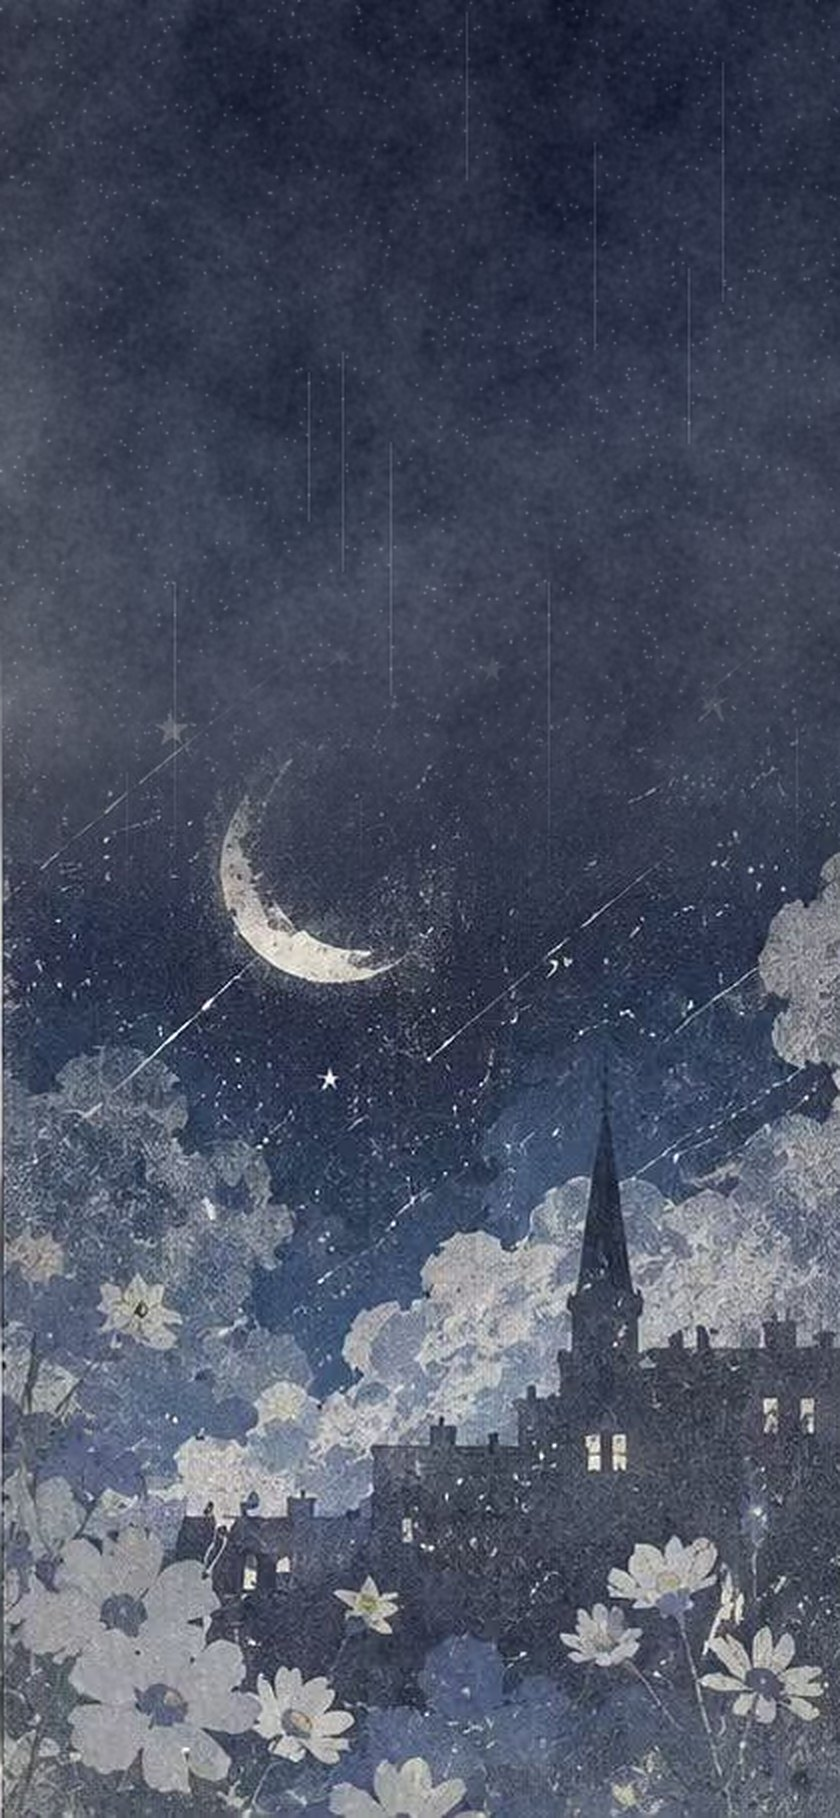
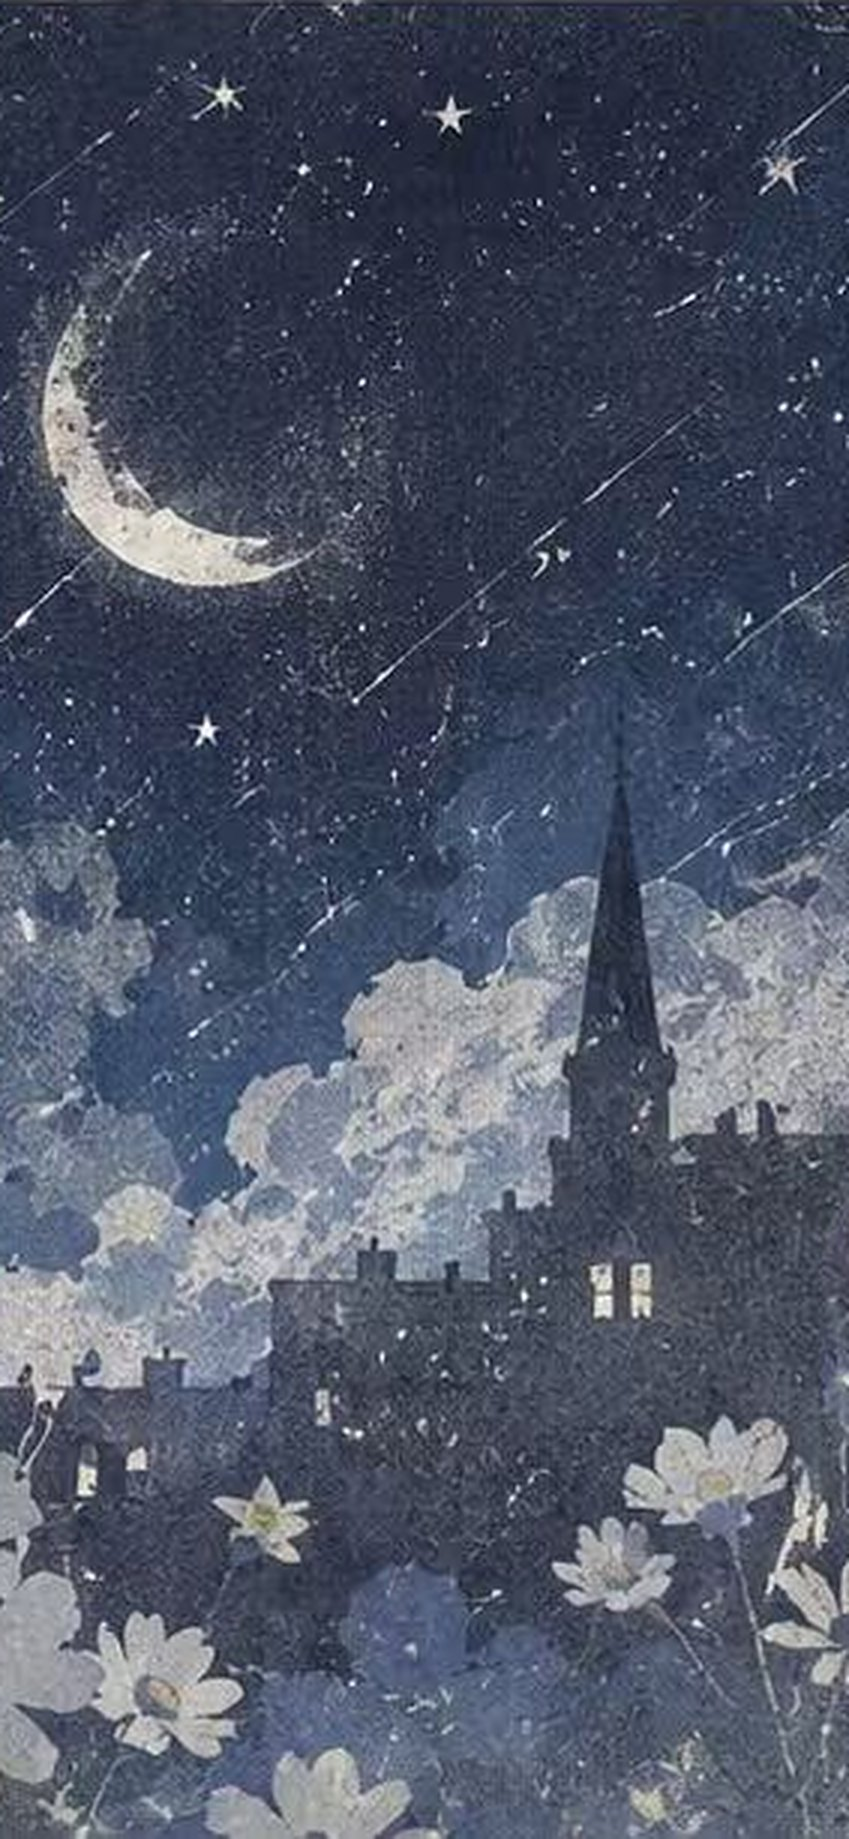
feat: 可安装的预览版插件 + 城堡壁纸改为裁剪
- 加 manifest.json / index.js / style.css：酒馆里出现可拖动的 ✦ 悬浮按钮，点开就是锁屏
- 城堡壁纸不再往上补天空，改为直接裁剪；通知位置按壁纸避开月亮
- 手机收起时暂停动画

Claude-Session: https://claude.ai/code/session_01W7dSssvQi6zYHde5aBuaY9

diff --git a/prototype/lockscreen/index.html b/prototype/lockscreen/index.html
@@ -83,7 +83,7 @@ canvas.as-layer { position: absolute; inset: 0; width: 100%; height: 100%; displ
 .as-lock-date { margin-top: 12px; font: 400 15px/1.4 var(--font-cn); letter-spacing: .14em; }
 .as-lock-sub { margin-top: 8px; font: 500 11px/1 var(--font-clock); letter-spacing: .34em; text-transform: uppercase; color: var(--ink-2); padding-left: .34em; }
 
-.as-lock-notice { position: absolute; left: max(16px, 4.5%); right: max(16px, 4.5%); top: 29.5%; display: flex; flex-direction: column; gap: 8px; }
+.as-lock-notice { position: absolute; left: max(16px, 4.5%); right: max(16px, 4.5%); top: var(--notice-top, 29.5%); transition: top 420ms var(--as-ease-standard); display: flex; flex-direction: column; gap: 8px; }
 /* 叠放：只露出第一张，后面的卡片在下面探出一条边；点一下展开 */
 .as-lock-notice__item { position: relative; transition: transform 420ms var(--as-ease-spring), opacity 300ms, margin 420ms var(--as-ease-spring); }
 .as-lock-notice.is-stacked .as-lock-notice__item:nth-child(n+2) { margin-top: -66px; transform: translateY(14px) scale(.93); opacity: .72; z-index: -1; }
@@ -285,10 +285,11 @@ const reduceMotion = matchMedia('(prefers-reduced-motion: reduce)').matches;
 
 /* ---------- 壁纸资料 ---------- */
 const WALL = {
-  castle: { day: 'wallpapers/castle-day.jpg', night: 'wallpapers/castle-night.jpg', aspect: 424 / 918,
-            moonDay: [0.47, 0.534], moonNight: [0.381, 0.48] },
+  // noticeTop：通知放在哪里，避开这张图的主角（月亮）
+  castle: { day: 'wallpapers/castle-day.jpg', night: 'wallpapers/castle-night.jpg', aspect: 283 / 613,
+            moonDay: [0.38, 0.30], moonNight: [0.21, 0.24], noticeTop: '45%' },
   water:  { day: 'wallpapers/water-day.jpg', night: 'wallpapers/water-night.jpg', aspect: 574 / 1242,
-            moonDay: [0.50, 0.523], moonNight: [0.50, 0.523] }
+            moonDay: [0.50, 0.523], moonNight: [0.50, 0.523], noticeTop: '29.5%' }
 };
 // 鱼群：圆心、横纵比、每条鱼的起始角度和半径（量自原图）
 const RING = { cx: 0.4796, cy: 0.5536, k: 1.378,
@@ -336,7 +337,7 @@ void main(){
   iuv = (iuv - .5) / uZoom + .5 + uDrift;
   vec2 off = vec2(0.);
   if (uKind < .5) {
-    float w = smoothstep(.80, 1., iuv.y);
+    float w = smoothstep(.70, 1., iuv.y);
     off.x += (sin(uTime*1.3 + iuv.y*18. + iuv.x*5.)*.0022 + sin(uTime*.7 + iuv.x*9.)*.0012) * w;
   } else {
     off = vec2(sin(iuv.y*38. + uTime*1.1) + sin((iuv.x+iuv.y)*27. - uTime*.8),
@@ -449,10 +450,11 @@ function setNight(night, origin, instant) {
 const rand = (a, b) => a + Math.random() * (b - a);
 let stars = [], motes = [], glints = [], meteors = [], bursts = [];
 function seedFx() {
-  stars = Array.from({ length: 30 }, () => ({ u: rand(.04, .96), v: rand(.04, .56), s: rand(1.6, 4.2), sp: rand(.6, 1.8), ph: rand(0, 6.28), warm: Math.random() < .35 }));
+  const w = WALL.castle;
+  stars = Array.from({ length: 34 }, () => ({ u: rand(.04, .96), v: rand(.03, .5), s: rand(1.6, 4.2), sp: rand(.6, 1.8), ph: rand(0, 6.28), warm: Math.random() < .35 }));
   // 别让星星落在月亮上
-  stars = stars.filter(s => Math.hypot((s.u - .43) * .46, s.v - .5) > .07);
-  motes = Array.from({ length: 22 }, () => ({ u: rand(0, 1), v: rand(.62, 1.02), r: rand(.8, 2.2), sp: rand(.006, .016), sw: rand(.4, 1.2), ph: rand(0, 6.28) }));
+  stars = stars.filter(s => [w.moonDay, w.moonNight].every(mp => Math.hypot((s.u - mp[0]) * w.aspect, s.v - mp[1]) > .1));
+  motes = Array.from({ length: 22 }, () => ({ u: rand(0, 1), v: rand(.68, 1.02), r: rand(.8, 2.2), sp: rand(.006, .016), sw: rand(.4, 1.2), ph: rand(0, 6.28) }));
   glints = Array.from({ length: 14 }, () => ({ u: rand(.3, .7), v: rand(.45, .98), s: rand(2, 4.5), sp: rand(1.5, 3.2), ph: rand(0, 6.28) }));
 }
 seedFx();
@@ -479,9 +481,9 @@ function drawFx(t, dt, m) {
     }
     // 日间：花丛上飘起的光尘
     if (m < .98) for (const p of motes) {
-      p.v -= p.sp * dt * .25; if (p.v < .55) { p.v = rand(.95, 1.03); p.u = rand(0, 1); }
+      p.v -= p.sp * dt * .25; if (p.v < .6) { p.v = rand(.95, 1.03); p.u = rand(0, 1); }
       const [x, y] = imgToScreen(p.u + Math.sin(t * p.sw + p.ph) * .01, p.v);
-      fx.globalAlpha = (1 - m) * .55 * Math.min(1, (p.v - .55) * 5); fx.fillStyle = 'rgb(255,248,226)';
+      fx.globalAlpha = (1 - m) * .55 * Math.min(1, (p.v - .6) * 5); fx.fillStyle = 'rgb(255,248,226)';
       fx.beginPath(); fx.arc(x, y, p.r, 0, 6.283); fx.fill();
     }
     // 夜间：流星，从右上往左下划过
@@ -623,6 +625,7 @@ document.addEventListener('visibilitychange', () => {
 function bindWallpaper(instant) {
   const w = WALL[S.kind];
   const apply = () => {
+    phone.style.setProperty('--notice-top', w.noticeTop);
     if (gl) {
       gl.activeTexture(gl.TEXTURE0); gl.bindTexture(gl.TEXTURE_2D, tex.day);
       gl.texImage2D(gl.TEXTURE_2D, 0, gl.RGBA, gl.RGBA, gl.UNSIGNED_BYTE, images[w.day]);
@@ -776,7 +779,16 @@ document.querySelectorAll('.as-lock-notice__item').forEach(n => n.addEventListen
 phone.addEventListener('click', e => { if (!e.target.closest('.as-lock-notice')) noticeBox.classList.add('is-stacked'); });
 
 /* ---------- 关闭 / 打开手机 ---------- */
-$('#closeBtn').addEventListener('click', () => { phone.classList.add('is-closed'); $('#fab').classList.add('is-open'); running = false; });
+const embedded = window.parent !== window;
+// 装在酒馆里时：手机被收起就暂停动画，省电
+addEventListener('message', e => {
+  if (!e.data || e.data.aster !== 'visible') return;
+  if (!e.data.v) running = false;
+  else if (!running) { running = true; last = now(); requestAnimationFrame(frame); }
+});
+$('#closeBtn').addEventListener('click', () => {
+  if (embedded) { try { window.parent.postMessage({ aster: 'close' }, '*'); } catch (e) {} return; }
+  phone.classList.add('is-closed'); $('#fab').classList.add('is-open'); running = false; });
 $('#fab').addEventListener('click', () => { $('#fab').classList.remove('is-open'); phone.classList.remove('is-closed'); if (!running) { running = true; last = now(); requestAnimationFrame(frame); } });
 
 /* ---------- 演示设置 ---------- */

diff --git a/index.js b/index.js
@@ -1,0 +1,107 @@
+// Aster 小手机 · 酒馆插件入口（预览版：目前只有锁屏）
+// 酒馆页面上放一个可拖动的悬浮按钮，点一下打开手机，再点一下或按关闭键收起。
+
+const BASE = new URL('.', import.meta.url).href;
+const PAGE = BASE + 'prototype/lockscreen/';
+const POS_KEY = 'aster-fab-pos';
+
+let overlay, frame, iframe, fab, loaded = false;
+
+function build() {
+    fab = document.createElement('button');
+    fab.id = 'aster-fab';
+    fab.type = 'button';
+    fab.title = 'Aster 小手机';
+    fab.setAttribute('aria-label', '打开 Aster 小手机');
+    fab.textContent = '✦';
+    document.body.appendChild(fab);
+
+    overlay = document.createElement('div');
+    overlay.id = 'aster-overlay';
+    frame = document.createElement('div');
+    frame.className = 'aster-frame';
+    iframe = document.createElement('iframe');
+    iframe.title = 'Aster 小手机';
+    iframe.setAttribute('allow', 'autoplay');
+    frame.appendChild(iframe);
+    overlay.appendChild(frame);
+    document.body.appendChild(overlay);
+
+    overlay.addEventListener('click', e => { if (e.target === overlay) close(); });
+    document.addEventListener('keydown', e => { if (e.key === 'Escape' && overlay.classList.contains('open')) close(); });
+    window.addEventListener('message', e => {
+        if (e.source === iframe.contentWindow && e.data && e.data.aster === 'close') close();
+    });
+
+    restorePos();
+    makeDraggable();
+}
+
+async function load() {
+    if (loaded) return;
+    loaded = true;
+    try {
+        const res = await fetch(PAGE + 'index.html', { cache: 'no-cache' });
+        const html = await res.text();
+        iframe.srcdoc = '<!doctype html><html><head><meta charset="utf-8">'
+            + '<meta name="viewport" content="width=device-width,initial-scale=1,viewport-fit=cover">'
+            + `<base href="${PAGE}"></head><body>${html}</body></html>`;
+    } catch (err) {
+        loaded = false;
+        console.error('[Aster] 加载锁屏失败', err);
+        if (window.toastr) window.toastr.error('Aster 加载失败，请检查插件文件是否完整');
+    }
+}
+
+function open() {
+    load();
+    overlay.classList.add('open');
+    fab.classList.add('is-hidden');
+    try { iframe.contentWindow && iframe.contentWindow.postMessage({ aster: 'visible', v: true }, '*'); } catch (e) { /* 还没加载好 */ }
+}
+
+function close() {
+    overlay.classList.remove('open');
+    fab.classList.remove('is-hidden');
+    try { iframe.contentWindow && iframe.contentWindow.postMessage({ aster: 'visible', v: false }, '*'); } catch (e) { /* 忽略 */ }
+}
+
+/* ---------- 悬浮按钮：拖动 + 记住位置 ---------- */
+function restorePos() {
+    try {
+        const p = JSON.parse(localStorage.getItem(POS_KEY) || 'null');
+        if (p) { fab.style.left = p.x + 'px'; fab.style.top = p.y + 'px'; fab.style.right = 'auto'; fab.style.bottom = 'auto'; }
+    } catch (e) { /* 用默认位置 */ }
+}
+
+function makeDraggable() {
+    let start = null, moved = false;
+    fab.addEventListener('pointerdown', e => {
+        const r = fab.getBoundingClientRect();
+        start = { x: e.clientX, y: e.clientY, l: r.left, t: r.top };
+        moved = false;
+        fab.setPointerCapture(e.pointerId);
+    });
+    fab.addEventListener('pointermove', e => {
+        if (!start) return;
+        const dx = e.clientX - start.x, dy = e.clientY - start.y;
+        if (!moved && Math.hypot(dx, dy) < 6) return;
+        moved = true;
+        const x = Math.min(window.innerWidth - fab.offsetWidth - 4, Math.max(4, start.l + dx));
+        const y = Math.min(window.innerHeight - fab.offsetHeight - 4, Math.max(4, start.t + dy));
+        fab.style.left = x + 'px'; fab.style.top = y + 'px'; fab.style.right = 'auto'; fab.style.bottom = 'auto';
+    });
+    fab.addEventListener('pointerup', () => {
+        if (!start) return;
+        if (moved) {
+            const r = fab.getBoundingClientRect();
+            try { localStorage.setItem(POS_KEY, JSON.stringify({ x: r.left, y: r.top })); } catch (e) { /* 忽略 */ }
+        } else {
+            open();
+        }
+        start = null;
+    });
+}
+
+if (document.readyState === 'loading') document.addEventListener('DOMContentLoaded', build);
+else build();

diff --git a/style.css b/style.css
@@ -1,0 +1,54 @@
+/* Aster 小手机 · 酒馆页面上的悬浮按钮和手机外框 */
+#aster-fab {
+    position: fixed;
+    right: 14px;
+    top: 38%;
+    z-index: 30000;
+    width: 46px;
+    height: 46px;
+    border-radius: 50%;
+    border: 1px solid rgba(255, 207, 158, .35);
+    background: #1b2540;
+    color: #ffcf9e;
+    font: 300 22px/1 Georgia, "Songti SC", serif;
+    box-shadow: 0 8px 24px rgba(10, 14, 30, .35);
+    cursor: pointer;
+    touch-action: none;
+    user-select: none;
+    -webkit-user-select: none;
+    transition: transform 160ms cubic-bezier(.2, .8, .2, 1), opacity 200ms;
+}
+#aster-fab:active { transform: scale(.94); }
+#aster-fab.is-hidden { opacity: 0; pointer-events: none; transform: scale(.6); }
+
+#aster-overlay {
+    position: fixed;
+    inset: 0;
+    z-index: 30001;
+    display: none;
+    place-items: center;
+    background: rgba(5, 8, 16, .45);
+    -webkit-backdrop-filter: blur(6px);
+    backdrop-filter: blur(6px);
+}
+#aster-overlay.open { display: grid; animation: aster-in 360ms cubic-bezier(.34, 1.4, .64, 1); }
+@keyframes aster-in { from { opacity: 0; transform: scale(.94); } }
+
+#aster-overlay .aster-frame {
+    width: min(100vw, calc((100dvh - 40px) * 390 / 844), 420px);
+    aspect-ratio: 390 / 844;
+    max-height: calc(100dvh - 40px);
+    border-radius: 46px;
+    overflow: hidden;
+    background: #121826;
+    box-shadow: 0 30px 80px rgba(10, 14, 30, .45), 0 0 0 10px #0d0f14, 0 0 0 11px rgba(255, 255, 255, .08);
+}
+#aster-overlay iframe { width: 100%; height: 100%; border: 0; display: block; background: #121826; }
+
+@media (max-width: 520px) {
+    #aster-overlay { background: #121826; }
+    #aster-overlay .aster-frame { width: 100vw; height: 100dvh; max-height: none; aspect-ratio: auto; border-radius: 0; box-shadow: none; }
+}
+@media (prefers-reduced-motion: reduce) {
+    #aster-overlay.open { animation: none; }
+}

diff --git a/README.md b/README.md
@@ -2,6 +2,10 @@
 
 SillyTavern 小手机插件（设计阶段）。
 
+## 安装到酒馆（预览版）
+酒馆 → 扩展 → 安装扩展 → 粘贴 `https://github.com/xxuxin0705/Aster` → 安装。
+装好后页面右侧会出现一颗 ✦ 悬浮按钮：点一下打开手机，按住可以拖动位置。目前只有锁屏，解锁后是占位页。
+
 ## 文档阅读顺序
 1. `docs/design-system.md` —— 设计规范（唯一的法官）
 2. `docs/pages-settings-lock.md` —— 设置 + 锁屏页面清单
